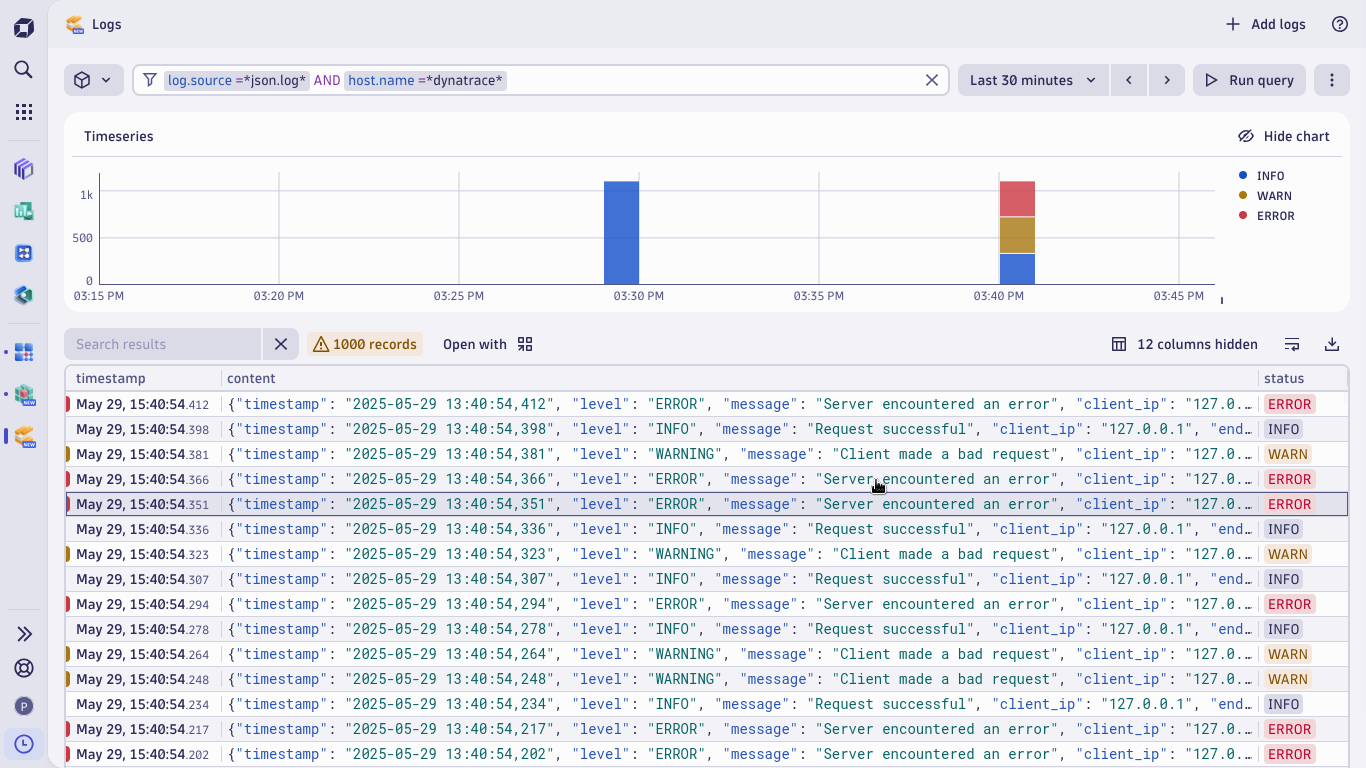
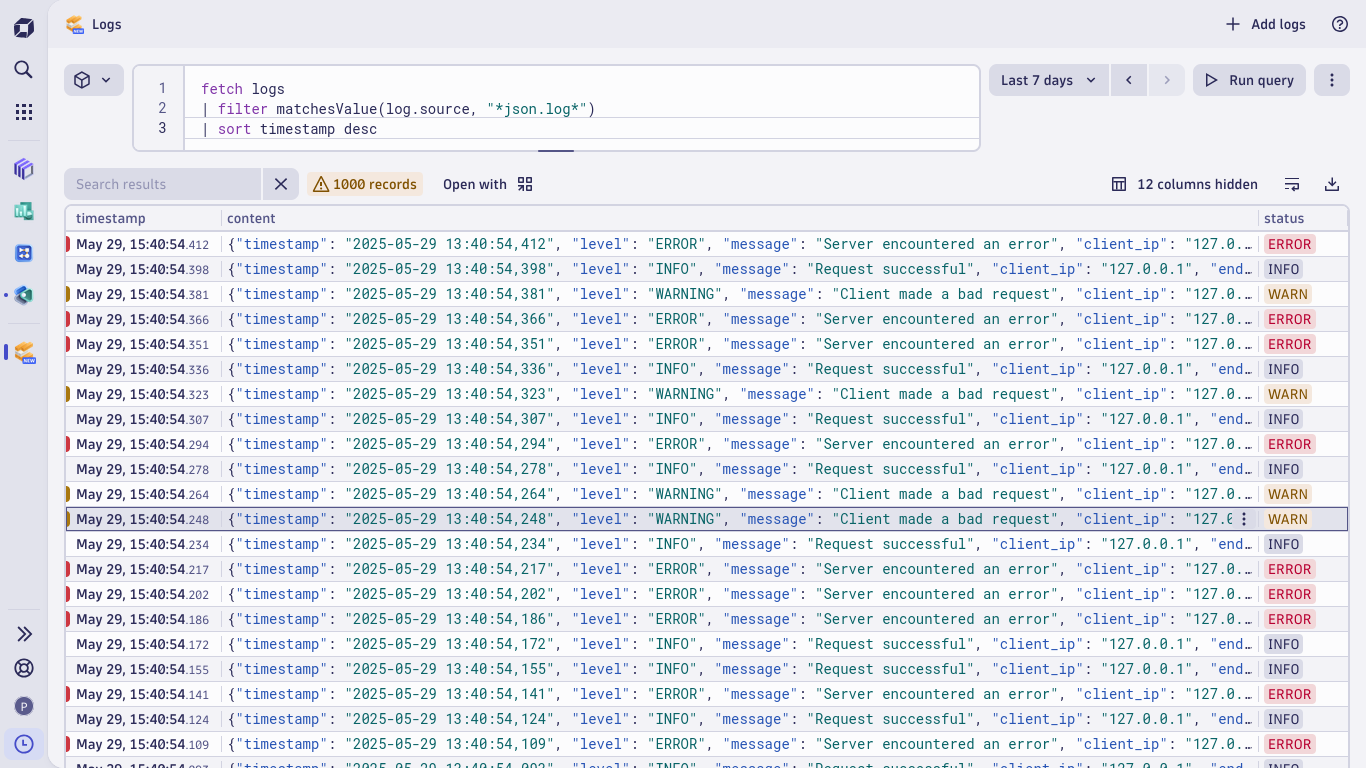
TODO: profile.md

Changed region(s): [[0.0, 0.0938, 1.0, 1.0], [0.6764, 0.0625, 0.7994, 0.125], [0.8917, 0.1562, 0.9839, 0.1875]]

diff --git a/README.md b/README.md
@@ -1,1 +1,132 @@
-# json vs plain logs
+# Flask Logging Comparison for Dynatrace
+
+This repository demonstrates two logging approaches in a Flask application – **JSON formatted logs** and **plain text logs** – to highlight the benefits of using structured logs when querying logs with Dynatrace Query Language (DQL). With JSON logs, each log entry is structured into clear fields (e.g., timestamp, log level, message, client IP, endpoint, and status code), making queries more readable and eliminating the need for complex string manipulations required with plain text logs.
+
+## Project Overview
+
+In modern monitoring solutions, having structured logs significantly improves the efficiency of troubleshooting and data analysis. This project showcases:
+
+- **JSON Logs:**  
+  Log entries are output as JSON objects. Each structured log includes properties like `timestamp`, `level`, `message`, `client_ip`, `endpoint`, and `status_code`, which makes them directly accessible and filterable using Dynatrace Query Language (DQL).
+
+- **Plain Text Logs:**  
+  Log entries are recorded as plain text. Although simpler, these require additional string manipulation to extract useful information for analysis.
+
+Both variants expose identical endpoints (`/info`, `/warning`, and `/error`) that simulate different HTTP status codes (200, 400, 500) to generate corresponding log entries.
+
+## File Breakdown
+
+### `json_logs.py`
+- **Purpose:** Demonstrates structured logging using a custom `JSONFormatter`.
+- **Key Features:**
+  - Custom formatter builds a JSON object for each log entry, including:
+    - `timestamp`
+    - `level`
+    - `message`
+    - `client_ip` (derived from the request, or "unknown")
+    - `endpoint` (the request path, or "unknown")
+    - `status_code` (supplied via `extra`)
+  - Logs are written to the file `json.log`.
+  - Endpoints implemented:
+    - `/info`: Logs an INFO level message.
+    - `/warning`: Logs a WARNING level message.
+    - `/error`: Logs an ERROR level message.
+
+### `plain_logs.py`
+- **Purpose:** Demonstrates standard plain text logging.
+- **Key Features:**
+  - Logs messages as plain text to `plain.log` without a custom formatter.
+  - Uses the same endpoints as the JSON version for a direct comparison.
+
+### `Vagrantfile`
+- **Purpose:** Provides a reproducible virtual machine setup.
+- **Key Features:**
+  - Uses the `debian/bookworm64` box.
+  - Allocates 4GB of memory and 2 CPUs.
+  - Sets the hostname to "dynatrace" to ease network configuration during testing.
+
+### `test_flask_app.sh`
+- **Purpose:** Simulates application traffic to generate log entries.
+- **Key Features:**
+  - Runs a loop (1111 iterations) that randomly hits one of the endpoints (`/info`, `/warning`, or `/error`) via `curl`.
+  - Helps generate sufficient log data to compare JSON vs. plain text logging results.
+
+### Log Sample Images
+- **`json_logs.png`:**  
+  Provides a screenshot showing the resulting structured logs in Dynatrace.
+- **`plain_logs.png`:**  
+  Provides a screenshot showing the plain text log outputs in Dynatrace.
+
+## Setup & Execution
+
+### Prerequisites
+
+- **Python 3.x & Flask**  
+- **Vagrant**  
+- **Dynatrace OneAgent**  
+
+### Instructions
+
+1. **Testing JSON Logging Workflow:**
+
+   **Step 1: Launch the Flask Application Using JSON Logging**
+   ```bash
+   python3 json_logs.py
+   ```
+
+   **Step 2: Simulate Traffic**
+   In another terminal (or within the VM), run:
+   ```bash
+   ./test_flask_app.sh
+   ```
+
+   **Step 3: Query Logs in Dynatrace**
+   - Open the Dynatrace logs service.
+   - Execute the following DQL query:
+     ```
+     fetch logs
+     | filter matchesValue(log.source, "*json.log*")
+     | sort timestamp desc
+     ```
+   - Review the results and compare them to the screenshot provided in `json_logs.png` to ensure logs are properly structured.
+    ![Json Logs](json_logs.png "Json Logs")
+   
+   **Step 4: Stop the JSON Flask Application**
+   - Press `CTRL+C` in the terminal running `json_logs.py` to stop the server.
+
+1. **Testing Plain Text Logging Workflow:**
+
+   **Step 1: Launch the Flask Application Using Plain Logging**
+   ```bash
+   python3 plain_logs.py
+   ```
+
+   **Step 2: Simulate Traffic**
+   Run the test script again:
+   ```bash
+   ./test_flask_app.sh
+   ```
+
+   **Step 3: Query Logs in Dynatrace**
+   - Open the Dynatrace logs service.
+   - Execute the following DQL query:
+     ```
+     fetch logs
+     | filter matchesValue(log.source, "*plain.log*")
+     | sort timestamp desc
+     ```
+   - Review the results and compare them with the screenshot provided in `plain_logs.png` to observe the differences in log formatting.
+    ![Plain Logs](plain_logs.png "Plain Logs")
+
+   
+   **Step 4: Stop the Plain Text Flask Application**
+   - Press `CTRL+C` in the terminal running `plain_logs.py` to stop the server.
+
+## Advantages of JSON Logging with Dynatrace
+
+- **Structured Queries:**  
+  With JSON logs, individual fields (like `status_code` and `endpoint`) can be queried directly, simplifying data extraction.
+- **Enhanced Readability & Analysis:**  
+  The clear separation of log attributes reduces the need for manual string parsing and allows for more straightforward troubleshooting.
+- **Efficient Data Processing:**  
+  Filtering, sorting, and aggregating log data become more efficient as each log entry adheres to a standardized JSON format.
